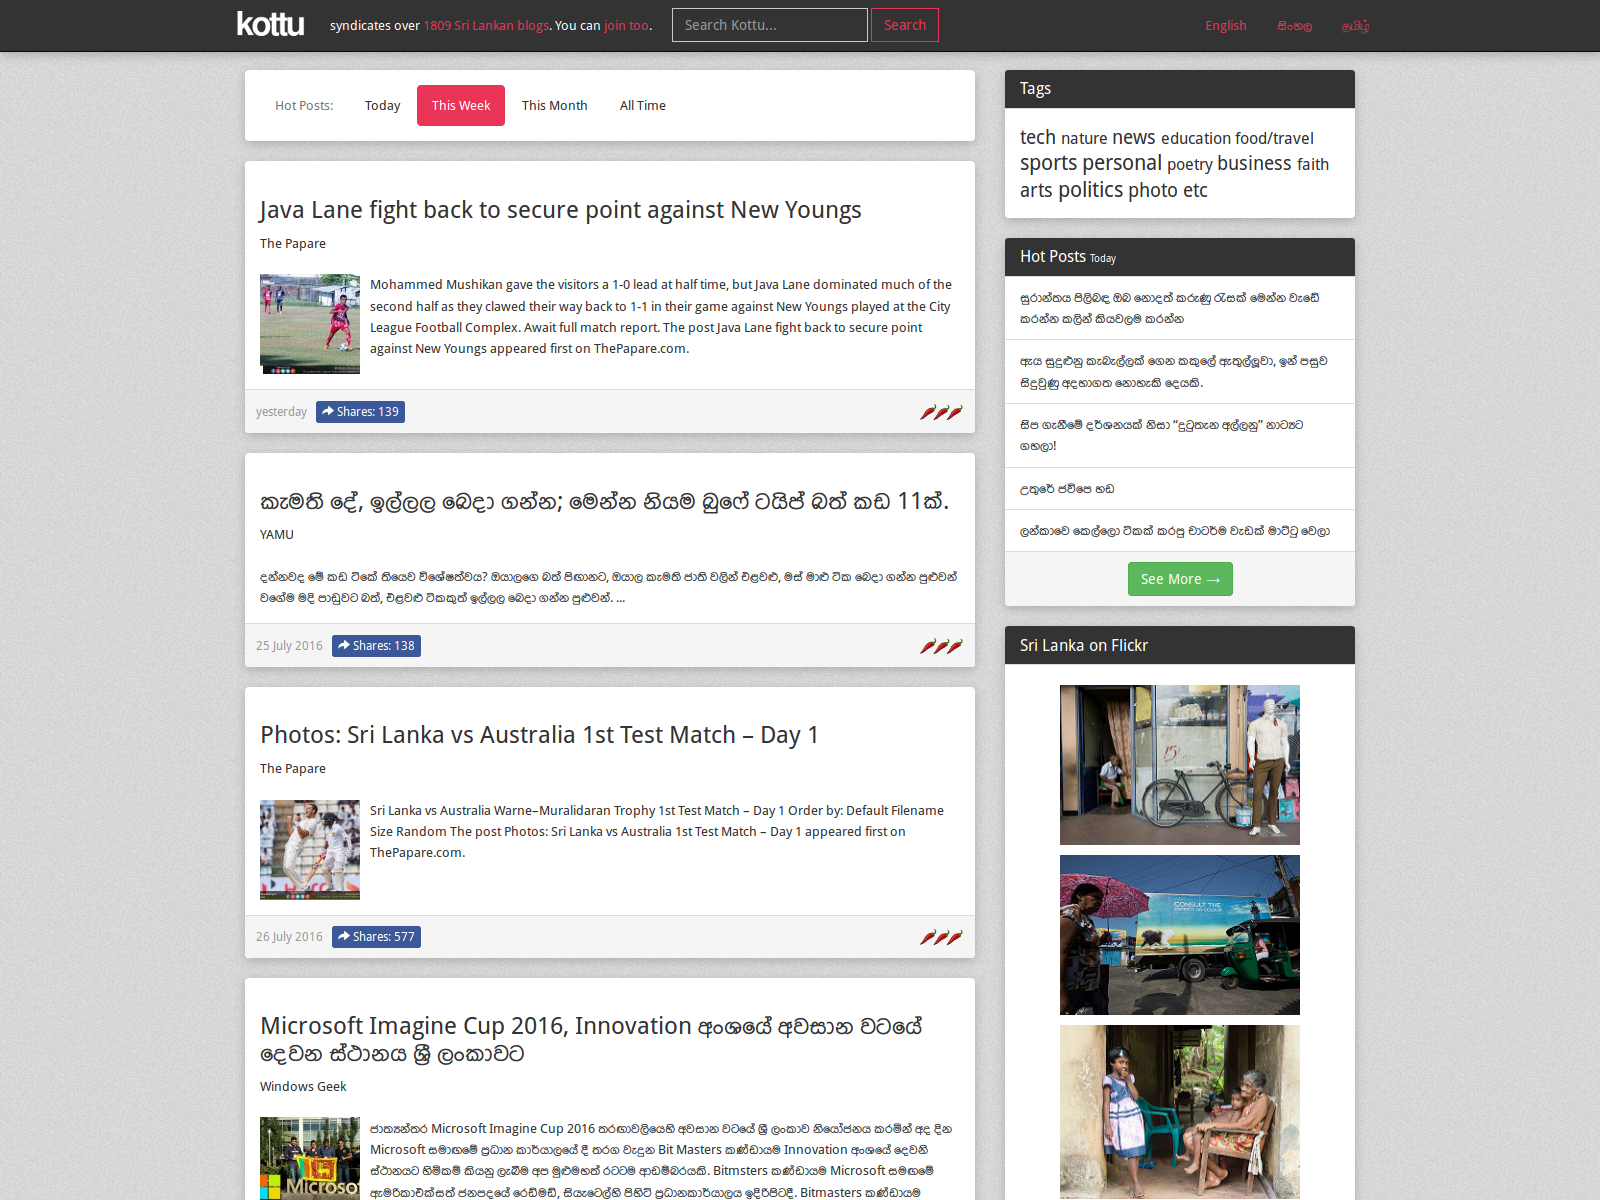
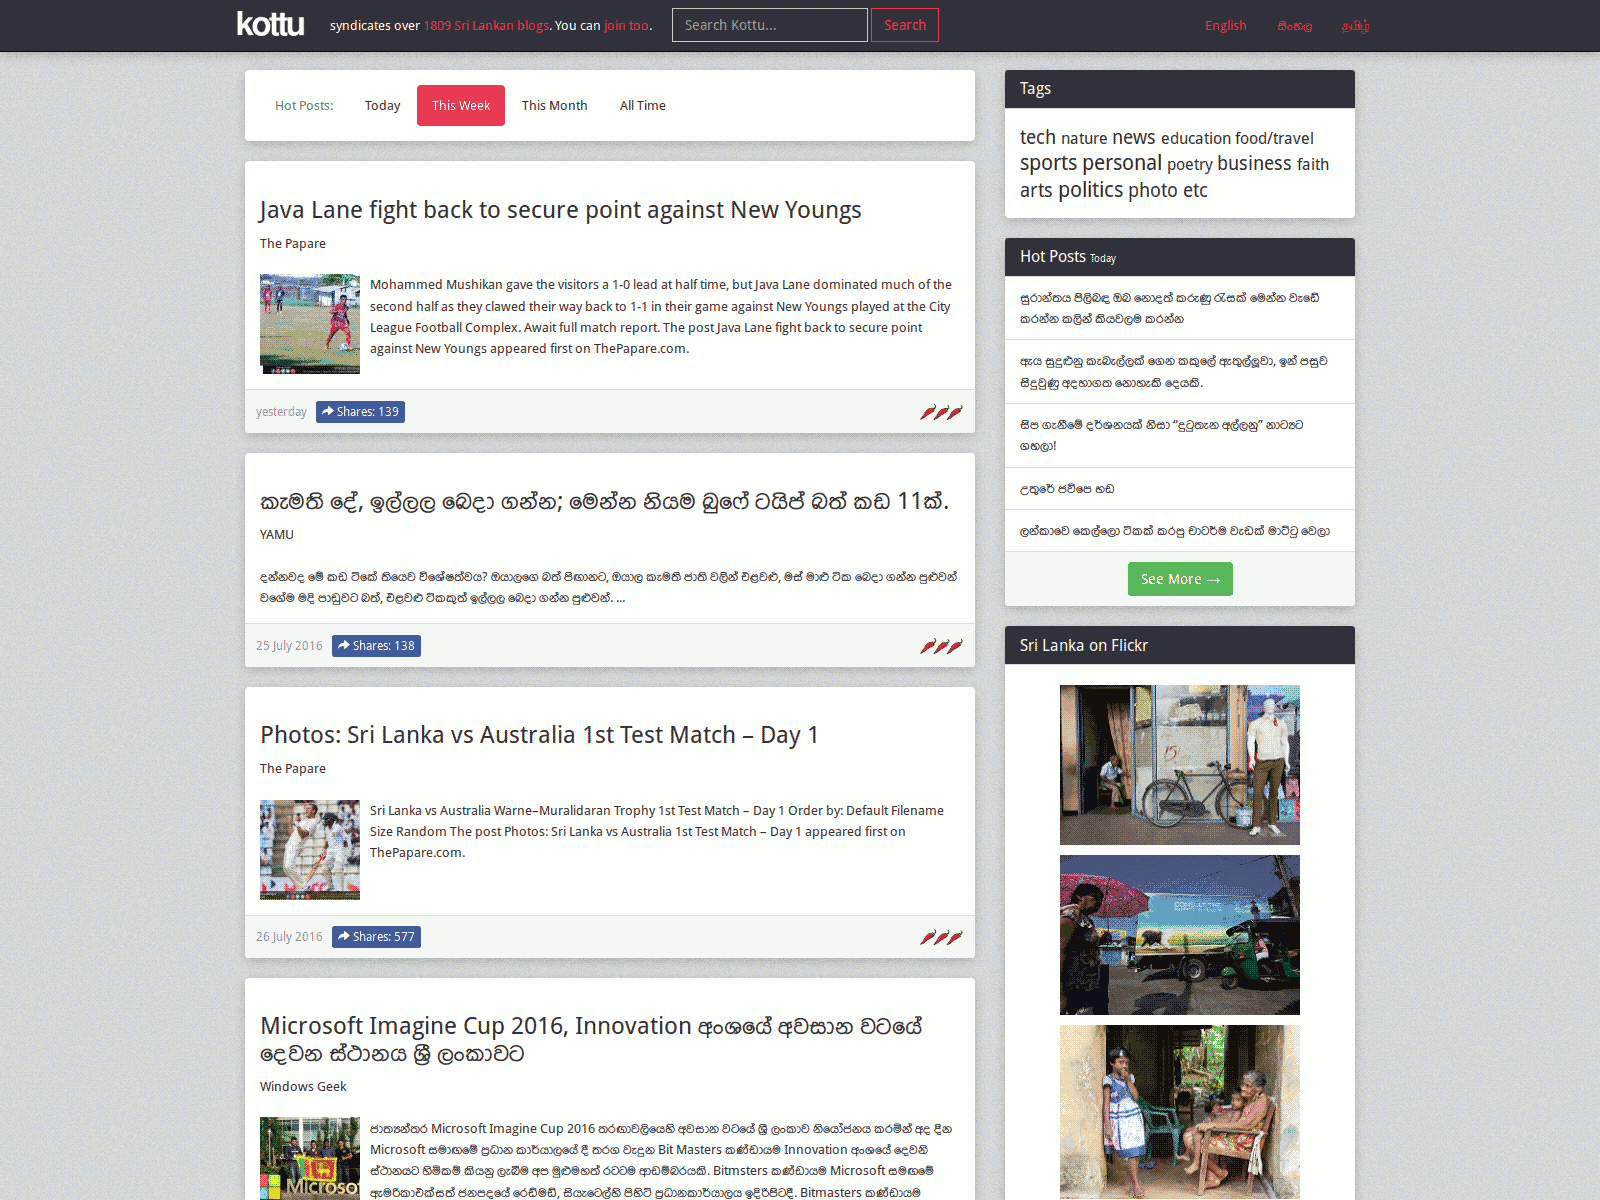
reverted kottu screenshot to png

diff --git a/2016/07/the-month-of-augustus/index.html b/2016/07/the-month-of-augustus/index.html
@@ -130,7 +130,7 @@ moved the front-end to use Bootstrap. Because slapping Bootstrap on sites that
 have worked perfectly without it is my thing. I'm hoping to deprecate the JQuery 
 Mobile-based Kottu Mobile site in favour of the responsive Bootstrap main site 
 in the near future, if there aren't any protests and self-immolations.</p>
-<p><img alt="Kottu Desktop" src="https://janithl.github.io/images/kottu-bootstrap-desktop.jpg" /></p>
+<p><img alt="Kottu Desktop" src="https://janithl.github.io/images/kottu-bootstrap-desktop.png" /></p>
 <p><img alt="Kottu Mobile" src="https://janithl.github.io/images/kottu-bootstrap-mobile.png" /></p>
 <p><strong>Update:</strong> <code>vnstat</code> output since Aug 1 (this is why I can't have nice things):</p>
 <div class="highlight"><pre><span></span>         day         rx      |     tx      |    total    |   avg. rate
